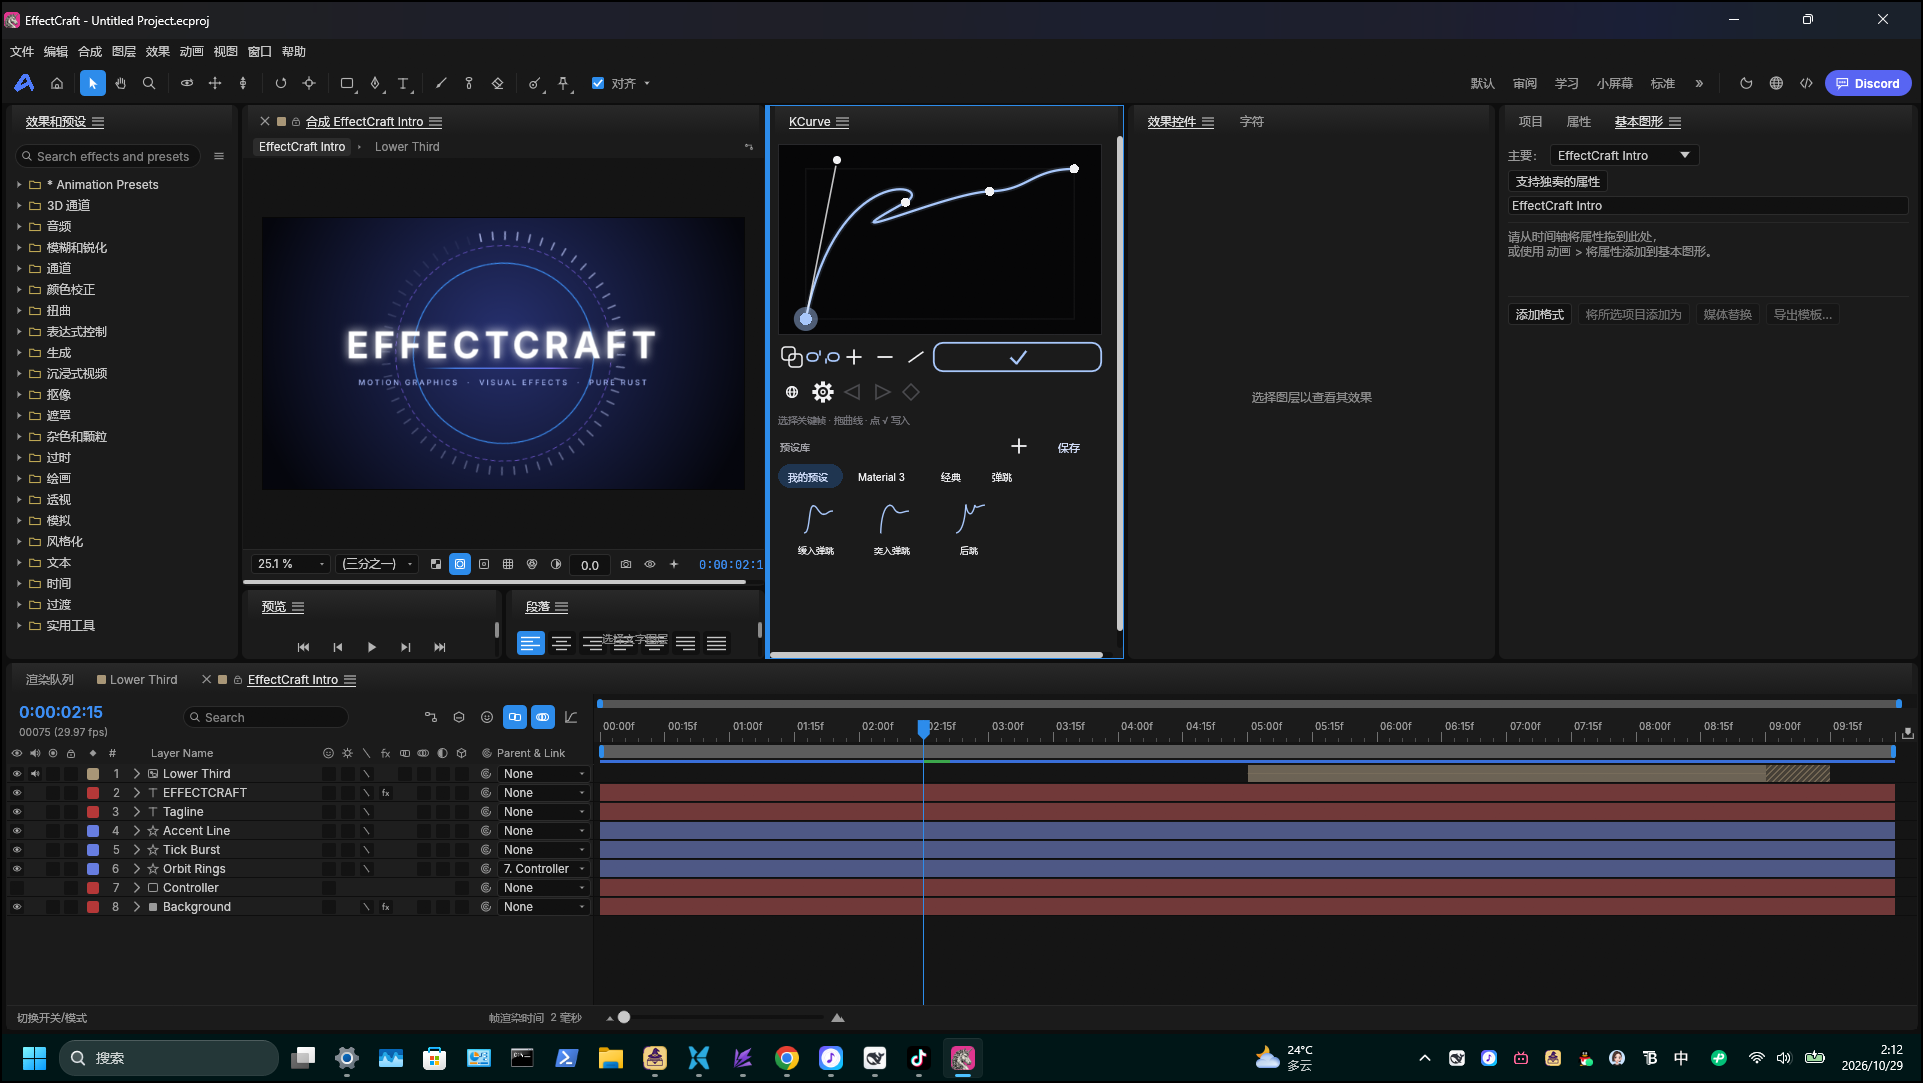
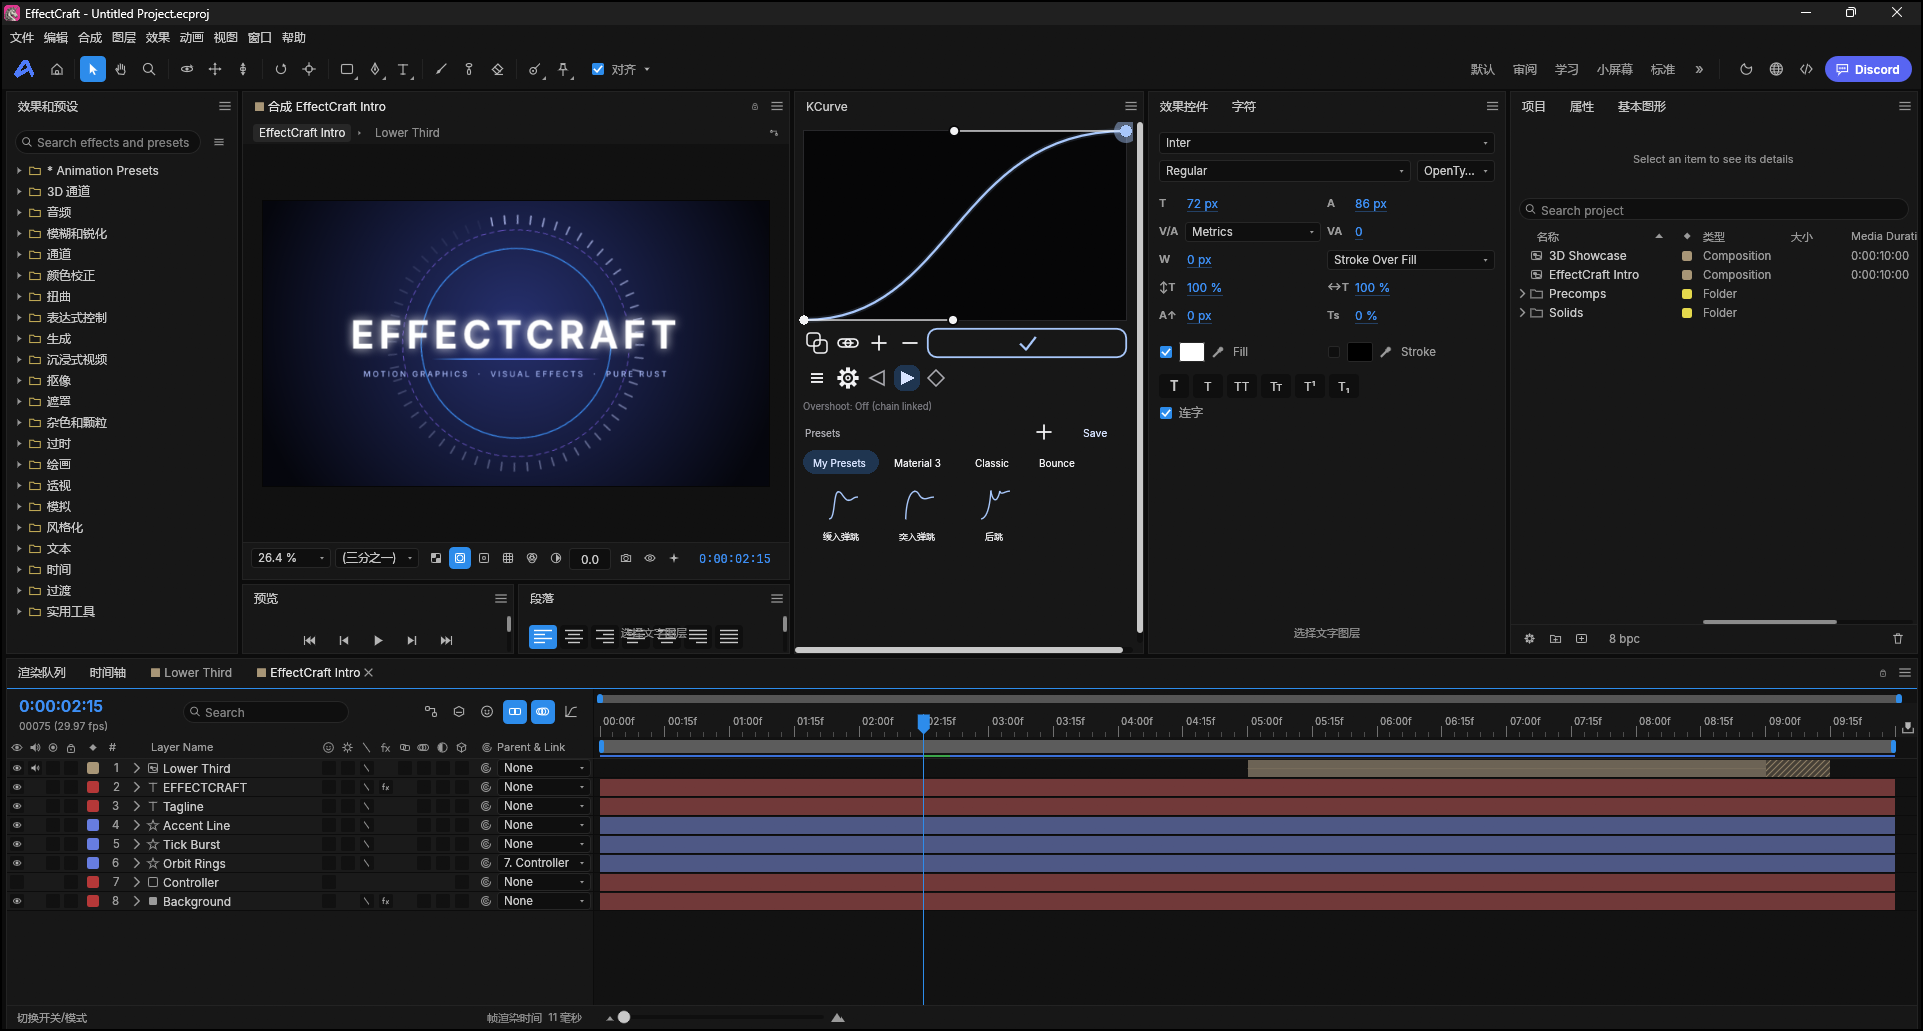
docs: refresh README screenshots and captions

diff --git a/README.md b/README.md
@@ -32,7 +32,7 @@ KCurve 把关键帧的缓动从数字参数变成一条可以拖的曲线：
 4. **平滑 / 折断**按钮切换当前点左右操纵杆是否联动；
 5. 点 **√** 后，KCurve 会按首尾选中关键帧的时间范围，把所有点写成时间线关键帧。
 
-截图里是从「弹跳」组载入的多点曲线（4 个关键帧），选中点才显示操纵杆；其他点只显示为圆点，
+截图里是一条多点曲线（「我的预设」组里是弹跳预设）：选中点才显示操纵杆，其他点只显示为圆点，
 避免多点曲线变成一团乱线。
 
 ---
@@ -63,7 +63,7 @@ KCurve 把关键帧的缓动从数字参数变成一条可以拖的曲线：
 - 下方可以切换 **入侧 / 出侧 / 双侧** 写入；
 - 选中关键帧后点 **√** 写入缓动；打开齿轮时拖动即实时写入。
 
-> 截图里是从预设库载入的「强调减速」，下方预设区可以直接点缩略图换曲线。
+> 截图里是从预设库载入的一条单段曲线；下方预设区可以直接点缩略图换曲线。
 
 ---
 
